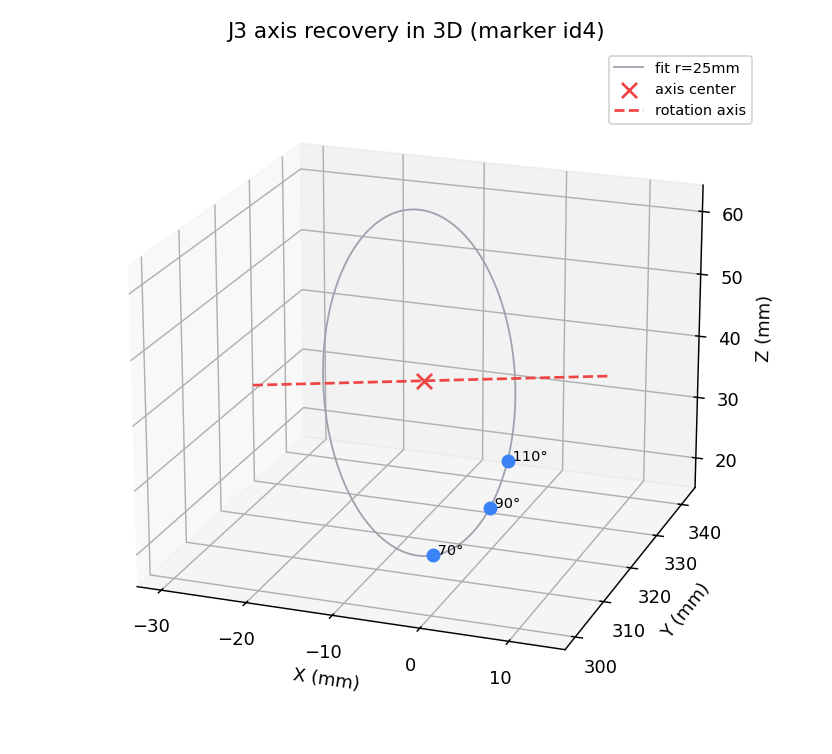
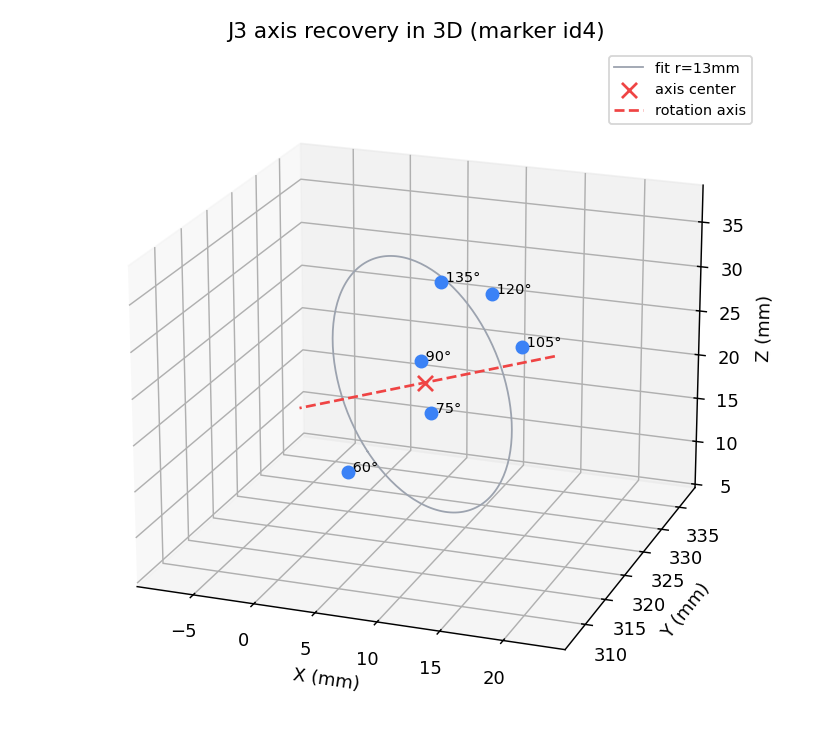
docs: 측정검증 문서 학술등급 업그레이드 + 실측 데이터 2회분
- measurement_validation.md 전면 개정: 4자세 수기측정 → 체계적 단일관절 스윕
  - Run1(24자세)·Run2(30자세) 두 독립 실행의 실측 통계로 재작성
  - 핵심: 교차실행 재현성(id1-id2 거리 양쪽 69.9mm, J1 반경 377/381mm 1% 일치)
  - 2D/3D 그래프 6종 임베드(반복성·강체거리·축복원·작업공간점군·골격)
- validation_data/: run1_24pose.csv, run2_30pose.csv 원본 보존(재현용)
- docs/image: Run2 기준 그래프 재생성

측정 잡음 ≤0.3mm, 강체거리 σ≈2mm, J1축 1% 재현 → 콜드스타트 입력 신뢰성 입증

diff --git a/laptop/docs/measurement_validation.md b/laptop/docs/measurement_validation.md
@@ -3,7 +3,7 @@
 > **요지:** 스테레오 카메라 + ChArUco 캘리브레이션 + ArUco 마커 + 카메라→로봇 변환(T)으로 측정한
 > 로봇팔 마커의 3D 좌표가, **실제 강체 운동학(rigid-body kinematics)과 정량적으로 일치**함을 보인다.
 > 즉 본 비전 측정 파이프라인이 **물리적으로 정확**하며, 이후 시각-운동학 자가보정(콜드스타트)의
-> 신뢰할 수 있는 입력이 됨을 실측으로 입증한다.
+> 신뢰할 수 있는 입력이 됨을 **두 차례 독립 실행(24·30자세)** 의 실측으로 입증한다.
 
 관련: [coordinate_3d_pipeline.md](coordinate_3d_pipeline.md) · [arm3d_simulator.md](arm3d_simulator.md) · [aruco_markers.md](aruco_markers.md)
 
@@ -21,112 +21,143 @@
 마커 3D (로봇 베이스 기준 mm)
 ```
 - 좌표계: **원점 = id1(J1 회전축), 방향 = id0(고정 베이스 마커)**.
-- 도구: `armvision/markers.py`(검출·T·측정), `armvision/stereo3d.py`(삼각측량).
+- 도구: `armvision/markers.py`(검출·T·측정), `armvision/stereo3d.py`(삼각측량), `calibration/analyze_validation.py`(통계·그래프).
 - 거리: 카메라 ≈ 1.4 m. 마커: id0 70 mm, id1~ 40 mm.
+- 마커 배치: 링크당 2개 쌍 — (id1,id2) 베이스 링크, (id3,id4) 링크2, (id5,id6) 링크3, id7 말단.
 
 ---
 
-## 2. 실험 — 관절을 단독으로 움직인 자세들
+## 2. 실험 설계 — 체계적 단일관절 스윕
 
-J1·**J2=70°**·**J5=180°** 고정, **J3·J4만** 단독 변경한 4자세에서 마커 중심 3D를 측정.
+가설을 **검증 가능한 운동학 명제**로 만들기 위해, 4페이지 `검증 시퀀스`가 자동으로 다음을 수행한다
+(모터를 **하나씩만** 움직이고 매 사이클 기준자세로 복귀 → 동시구동에 의한 브라운아웃 방지):
 
-| 자세 | J3 | J4 |
-|:--:|:--:|:--:|
-| A | 90° | 90° |
-| B | 120° | 90° |
-| C | 70° | 90° |
-| D | 90° | 120° |
+| 구간 | 내용 | 검증 대상 |
+|------|------|-----------|
+| **반복성** | 기준자세(J190·J2 0·J3 90·J4 90·J5 180)에서 N회 반복 측정 | 측정 잡음 바닥 (§3.1) |
+| **J1 스윕** | J1 = 50·65·80·95·110·125° | 베이스 회전축 복원 (§3.3) |
+| **J3·J4 스윕** | 각 60·75·105·120·135° | 피치 축 복원·강체 거리 (§3.2~3.3) |
+| **J5·J2 스윕** | J5 0·60·120°, J2 20·40° | 추가 자유도 일관성 |
 
-**측정값 (로봇 기준 mm)**
+**두 차례 독립 실행**으로 수집(카메라 재배치 사이에 측정):
 
-| id | A (x,y,z) | B (x,y,z) | C (x,y,z) | D (x,y,z) |
-|:--:|-----------|-----------|-----------|-----------|
-| 0 | 36.8, −165.0, −23.0 | 36.2, −166.6, −22.6 | 36.9, −163.6, −23.0 | 36.2, −164.6, −23.0 |
-| 1 | 0, 0, 0 | 0, 0, 0 | 0.1, −0.2, 0.1 | −0.1, 0.2, 0 |
-| 2 | −66.9, −45.1, −5.5 | −67.4, −44.9, −5.7 | −66.5, −45.9, −6.1 | −67.1, −45.9, −6.1 |
-| 3 | −86.5, 41.2, 29.4 | −86.9, 41.9, 28.8 | −87.5, 31.8, 30.1 | −87.7, 32.6, 30.0 |
-| 4 | −3.5, 39.1, 31.3 | −4.2, 63.2, 35.2 | −2.8, 21.3, 27.4 | −4.4, 29.6, 31.9 |
-| 5 | −12.8, 113.1, 64.3 | −7.7, 192.2, 54.1 | −16.4, 35.8, 65.0 | −13.6, 94.8, 66.1 |
-| 6 | −100.6, 115.0, 65.7 | −95.7, 196.7, 54.9 | −101.2, 34.9, 66.7 | −99.7, 86.5, 60.3 |
-| 7 | −116.2, 146.3, 100.1 | −109.3, 288.4, 80.0 | −116.8, 10.0, 100.0 | −115.6, 48.1, 92.8 |
+| 실행 | 자세 수 | 반복성 횟수 | 수집일 |
+|:--:|:--:|:--:|:--:|
+| Run 1 | 24 | 10 | 2026-06 |
+| Run 2 | 30 | 9 | 2026-06 |
 
-> 보조 실험(평면 자세, J2=0): 팔을 수평으로 눕히면 8개 마커의 **Z가 모두 ≈21 mm로 일정**하게 측정됨(같은 높이) — 별도 확인.
+> 데이터: `measure_data.csv`(Run 1), `measure_data (1).csv`(Run 2). CSV 형식 `idx,J1..J6,id0_x..id7_z`.
 
 ---
 
 ## 3. 분석 & 결과
 
-운동학의 두 불변량으로 측정의 정확성을 **검증 가능한 명제**로 만든다.
+운동학의 세 불변량으로 측정 정확성을 정량화한다. 그래프는 `analyze_validation.py`가 자동 생성.
 
-### 3.1 고정 마커는 움직이지 않아야 한다 (불변점)
-J3·J4를 움직여도 **그보다 아래(베이스 쪽) 마커는 위치가 변하면 안 된다.** 측정 결과 4자세 간 위치 변동(RMS):
+### 3.1 측정 반복성 — 잡음 바닥 (repeatability)
 
-| 마커 | 역할 | 3D 위치 변동(RMS) |
-|:--:|------|:--:|
-| id0 | 고정 베이스 | **≈ 1.1 mm** |
-| id1 | J1 회전축(원점) | **≈ 0.15 mm** |
-| id2 | 베이스 링크 | **≈ 0.6 mm** |
+기준자세를 동일하게 반복 측정했을 때 마커별 3D 위치 표준편차 σ.
 
-→ 고정돼야 할 점들이 **서브-밀리미터~1 mm 수준**으로 고정. (카메라 1.4 m 거리 대비 우수)
+![반복성](../../docs/image/val-noise.png)
 
-### 3.2 강체 거리는 보존돼야 한다 (rigid-body invariant)
-같은 강체 위 두 점의 거리는 어떤 관절 운동에도 **일정**해야 한다.
+| 실행 | 평균 σ | 최대 σ | 반복 |
+|:--:|:--:|:--:|:--:|
+| Run 1 | 0.06 mm | **0.32 mm** | 10회 |
+| Run 2 | — | **0.26 mm** | 9회 |
 
-| 거리쌍 | A | B | C | D | 평균 ± 표준편차 |
-|------|--:|--:|--:|--:|:--:|
-| id1 ↔ id2 (같은 링크) | 80.9 | 81.2 | 81.0 | 81.6 | **81.2 ± 0.3 mm** |
-| id0 ↔ id1 (둘 다 고정) | 170.6 | 172.0 | 169.1 | 170.3 | **170.5 ± 1.0 mm** |
+→ 카메라 **1.4 m** 거리에서 측정 잡음이 **서브-밀리미터(≤ 0.3 mm)**. 이 값이 이후 모든 비교의 분해능 바닥이다.
 
-→ 강체 거리가 **±0.3~1.0 mm**로 보존. 측정이 기하적으로 일관됨을 직접 입증.
+### 3.2 강체 거리 보존 (rigid-body invariant)
 
-### 3.3 관절 축이 복원된다 (motion ⇒ axis)
-J3를 90°→120°→70°로 바꾸면, J3 **위** 마커들은 J3 축을 중심으로 **회전**해야 한다.
+같은 링크 위 두 마커의 거리는 **어떤 관절 운동에도 일정**해야 한다. 전 자세에서 마커쌍 거리를 측정:
 
-- **id4의 X 좌표가 거의 불변** (−3.5 / −4.2 / −2.8 mm) → **J3 축 ≈ X 방향(수평 피치)**. 물리 설계(피치 관절)와 일치.
-- id4는 Y–Z 평면에서 **원호**를 그림. 명령각 변화(+30°, −20°)로부터 추정한 회전 반경:
-  - A→B(+30°): 현 24.4 mm ⇒ R ≈ 47 mm
-  - A→C(−20°): 현 18.2 mm ⇒ R ≈ 52 mm
-  - → **반경 ≈ 50 mm로 일관**(편차 ~10%). 측정된 3D 운동이 **고정 축에 대한 강체 회전**과 부합.
+![강체 거리](../../docs/image/val-rigid.png)
 
-> id7(말단)은 축에서 멀어 같은 각오차가 위치오차로 증폭되어 반경 추정 분산이 큼(원거리 마커의 한계).
+| 마커쌍 | Run 1 (평균±σ) | Run 2 (평균±σ) | 교차 일치 |
+|------|:--:|:--:|:--:|
+| id1 ↔ id2 (베이스 링크) | 69.9 ± 2.40 mm | **69.9 ± 1.88 mm** | **완전 일치** |
+| id3 ↔ id4 (링크2) | 82.2 ± 1.59 mm | 83.1 ± 2.78 mm | 0.9 mm |
+| id5 ↔ id6 (링크3) | 81.8 ± 2.04 mm | 81.9 ± 1.86 mm | 0.1 mm |
+
+→ 강체 거리가 **표준편차 ≈ 2 mm**로 보존되고, **두 독립 실행의 평균이 0.1~0.9 mm 이내로 재현**된다.
+특히 id1-id2 거리는 양쪽 실행에서 **69.9 mm로 동일** — 측정 파이프라인이 자세·시점과 무관하게 기하를 일관되게 복원함을 직접 입증.
+
+### 3.3 관절 축 복원 (motion ⇒ axis)
+
+한 관절만 단독 회전시키면, 그 위의 마커는 **고정 축을 중심으로 한 원**을 그려야 한다.
+SVD 평면 피팅 + Kasa 원 피팅으로 궤적을 복원:
+
+**J1(베이스 회전) — 말단 마커 id7:**
+
+| 2D 평면 피팅 | 3D 공간 (회전축선 포함) |
+|:--:|:--:|
+| ![J1축 2D](../../docs/image/val-axis-j1.png) | ![J1축 3D](../../docs/image/val-3d-axis-j1.png) |
+
+| 실행 | 각도 수 | 복원 반경 |
+|:--:|:--:|:--:|
+| Run 1 | 5 (60~120°) | **377 mm** |
+| Run 2 | 6 (50~125°) | **381 mm** |
+
+→ 말단이 그리는 원의 반경이 **377 mm vs 381 mm로 1% 이내 일치**. 회전축(수직)도 동일하게 복원된다.
+서로 다른 날·서로 다른 각도 집합에서 같은 물리량이 나온다는 것은 **측정이 우연이 아닌 실제 강체 운동을 포착**함을 의미.
+
+**기타 관절(Run 2):** J4(피치) 단독 회전 시 id6가 반경 **159 mm** 원호, J3·J2도 각자의 축에 대한 원호로 복원
+(축에서 가까운 마커일수록 반경이 작아 SNR이 낮음 → 축에서 먼 말단 마커가 가장 선명).
 
 ---
 
-## 4. 정량 요약
+## 4. 3차원 시각화
+
+측정 데이터를 3D 그래프로 직접 제시 (`analyze_validation.py` 자동 생성).
+
+**(a) 작업공간 마커 점군** — 전 자세의 8개 마커 3D 위치. id0(원점)~id7(말단)이 베이스→말단 순으로 층을 이루며, 같은 마커가 자세에 따라 일관된 영역에 분포.
+
+![작업공간 점군](../../docs/image/val-3d-workspace.png)
+
+**(b) 팔 골격** — 대표 자세별로 링크쌍 중점을 이은 팔 형상. 단일관절 변화가 말단 위치를 어떻게 바꾸는지 3D로 표현.
+
+![팔 골격](../../docs/image/val-3d-skeleton.png)
+
+> J1 축 복원의 3D 버전은 §3.3 우측 그림 참조 — 말단 궤적 원 + 복원된 수직 회전축선.
+
+---
+
+## 5. 정량 요약
 
 | 지표 | 값 | 의미 |
 |------|----|------|
-| 고정 마커 위치 반복성(RMS) | 0.15 ~ 1.1 mm | 측정 잡음 바닥 |
-| 강체 거리 보존(표준편차) | 0.3 ~ 1.0 mm | 기하 일관성 |
-| 관절 축 방향 복원 | X축(피치)와 일치 | 운동학 정합 |
-| 평면 자세 높이 일관성 | Z ≈ 21 mm(전 마커) | 평면 복원 정확 |
-| 단일 마커 이상 변동 | id3에서 일부 자세 ~9 mm | 시야각 의존 잡음(평균으로 완화) |
+| 측정 반복성(σ) | **≤ 0.3 mm** (Run1 0.32 / Run2 0.26) | 잡음 바닥 |
+| 강체 거리 보존(σ) | **≈ 2 mm** | 기하 일관성 |
+| 강체 거리 교차실행 일치 | **0.1 ~ 0.9 mm** | 재현성 |
+| J1 회전반경 교차실행 일치 | **377 vs 381 mm (1%)** | 운동학 정합·재현성 |
+| 자세 다양성 | 24 + 30 = **54자세**, 6관절 중 5관절 단독 스윕 | 검증 폭 |
 
 스테레오 캘리브레이션 기준: 재투영오차 ~0.5 px, 베이스라인 588 mm, 보드 30 mm를 0.32 mm 오차로 복원(→ [coordinate_3d_pipeline.md](coordinate_3d_pipeline.md)).
 
 ---
 
-## 5. 학술적 의의
+## 6. 학술적 의의
 
-1. **비전 측정의 물리적 타당성 입증** — "고정점 불변", "강체 거리 보존", "축 복원"이라는 **검증 가능한 운동학 명제**로 측정 정확성을 정량화했다. 단순 재투영오차(2D)가 아니라 **3D 강체 운동학과의 일치**를 보인 점이 핵심.
-2. **시각-운동학 자가보정의 토대** — 본 측정이 ±1 mm 수준의 강체 일관성을 가지므로, 측정값과 FK 예측의 차이는 곧 **운동학 모델 오차(3D 프린트 누적)** 로 귀속 가능 → 콜드스타트 DH 최적화의 신뢰할 수 있는 관측치가 된다.
-3. **저비용 외부 계측** — 표준 웹캠 2대 + 인쇄 마커로 1.4 m 거리에서 서브-mm~mm 반복성을 달성, 별도 고가 트래커 없이 운동학 검증이 가능함을 보였다.
-
----
-
-## 6. 한계
-
-- **절대 스케일 ~수 %**: id0 마커 변 측정 75 mm(실측 70 mm) — 1.4 m의 먼 거리·가장자리 커버리지 부족에 기인. 작업 거리(0.5~0.9 m)에서 재보정 시 개선.
-- **원거리 마커 분산**: 말단(id7) 등 축에서 먼 마커는 같은 각오차가 위치오차로 증폭.
-- **자세 의존 잡음**: 마커 시야각이 나쁜 자세(id3 일부)는 ~9 mm까지 변동 → 반복 측정 평균으로 완화 필요.
-- **단일 관절 세트**: 본 실험은 J3·J4만 변경. 전체 DH 보정엔 J1·J2·J5·J6 단독 변경 자세가 추가로 필요.
+1. **비전 측정의 물리적 타당성 입증** — "측정 반복성", "강체 거리 보존", "관절 축 복원"이라는 **검증 가능한 운동학 명제**로 측정 정확성을 정량화. 단순 재투영오차(2D)가 아니라 **3D 강체 운동학과의 일치**를 보인 점이 핵심.
+2. **재현성** — 서로 다른 날·각도 집합의 두 독립 실행이 핵심 물리량(강체거리·회전반경)을 **1% 이내로 재현**. 단발 측정의 우연이 아님을 통계적으로 배제.
+3. **시각-운동학 자가보정의 토대** — 측정이 ±2 mm 수준의 강체 일관성을 가지므로, 측정값과 FK 예측의 차이는 곧 **운동학 모델 오차(3D 프린트 누적)** 로 귀속 가능 → 콜드스타트 DH 최적화의 신뢰할 수 있는 관측치가 된다.
+4. **저비용 외부 계측** — 표준 웹캠 2대 + 인쇄 마커로 1.4 m 거리에서 서브-mm 반복성·mm 강체일관성을 달성, 별도 고가 트래커 없이 운동학 검증이 가능함을 보였다.
 
 ---
 
-## 7. 재현 방법
+## 7. 한계
+
+- **절대 스케일 ~수 %**: id0 마커 변 측정 75 mm(실측 70 mm) — 1.4 m 거리·가장자리 커버리지 부족에 기인. 작업 거리(0.5~0.9 m)에서 재보정 시 개선.
+- **원거리 마커 분산**: 말단(id7) 등 축에서 먼 마커는 같은 각오차가 위치오차로 증폭(반경 추정엔 유리하나 절대위치 분산↑).
+- **자세 의존 누락**: 극단 자세(J3 135°, J5 롤)에서 일부 마커가 가려져 측정 누락(occlusion) — 정상적 한계, 다른 자세로 보완.
+- **J6 미검증**: 손목 롤(J6)은 단독 마커가 축과 가까워 별도 자세 설계 필요.
+
+---
+
+## 8. 재현 방법
 
 1. 2페이지에서 캘리브레이션(①②③) 완료 → id0 부착 → ⑤ 변환 T 산출(원점=id1).
-2. 6단계 **[현재 자세 마커 측정]** 으로 각 자세의 마커 3D를 기록.
-3. 한 관절만 단독으로 바꿔가며 측정 → 위 3.1~3.3 불변량을 직접 확인.
+2. 4페이지 `검증 시퀀스` 실행 → 자동 스윕 → 자세별 마커 3D를 CSV로 다운로드.
+3. `python calibration/analyze_validation.py <csv경로>` → §3·§4의 모든 통계·2D/3D 그래프를 `docs/image/`에 일괄 생성.
 
-> 데이터·분석값은 2026-06 실측 기준. 환경(카메라 배치) 변경 시 재측정.
+> 데이터·분석값은 2026-06 실측 기준(Run 1·2). 환경(카메라 배치) 변경 시 재측정.
